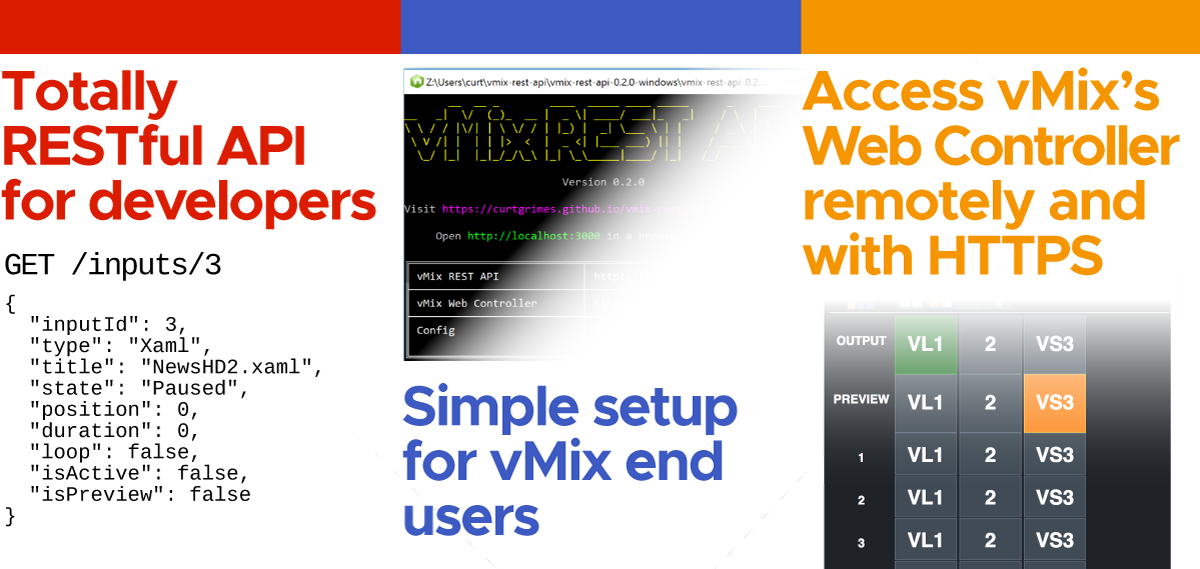
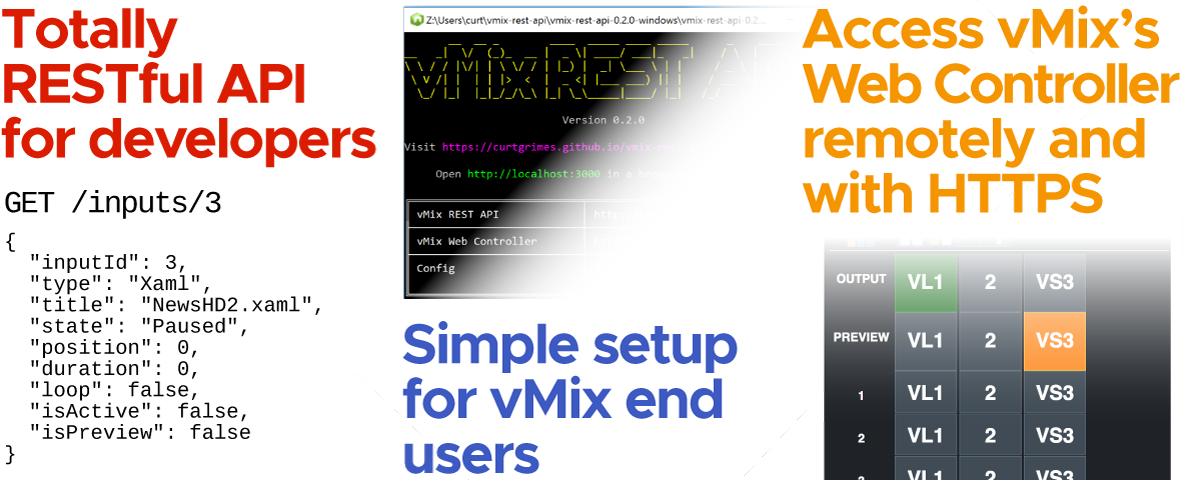
Update features graphic

diff --git a/README.md b/README.md
@@ -14,7 +14,7 @@
 * Runs alongside vMix's existing XML-based API.
 
 <p align="center">
-  <img src="/docs/vmix-web-api-features.png?raw=true" alt="vMix REST API Features" width="700">
+  <img src="/docs/vmix-web-api-features.png?raw=true" alt="vMix REST API Features" width="800">
 </p>
 
 ## Installation
